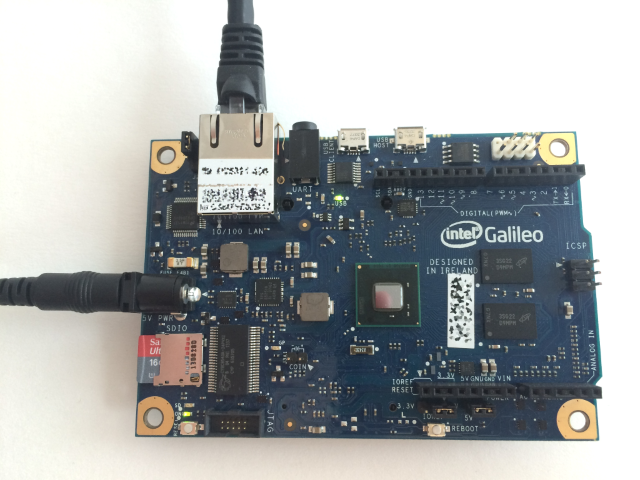
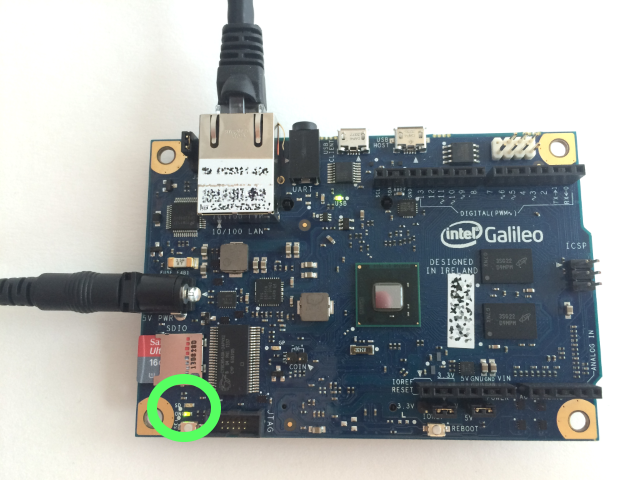
Minor content updates 908394 Before you start text 908503 Power supply incompatibility 908590 Image updates for Gen2

Changed region(s): [[0.2188, 0.7812, 0.3438, 0.9375]]

diff --git a/SetupGalileo.md b/SetupGalileo.md
@@ -4,8 +4,13 @@ title: Setup your Intel Galileo
 permalink: /SetupGalileo.htm
 ---
 
+# Before you start
+Please make sure you've visited [Setup Your PC](SetupPC.htm) before continuing with these instructions. 
+
+Please ensure that you are enrolled in the [Windows Developer Program for IoT](https://connect.microsoft.com/windowsembeddediot/SelfNomination.aspx?ProgramID=8558){:target="_blank"}. 
+
 # Setup your Intel Galileo
-This guide will show you how to install and run the Windows Developer Program for IoT on an Intel Galileo Gen1 or Gen2.
+This guide will show you how to install and run the Windows Developer Program for IoT on an Intel Galileo Gen1 or Gen2. 
 
 ## Creating a Microsoft Windows bootable microSD card
 
@@ -25,7 +30,6 @@ Requirements:
 
 * A microSD card reader or SD card reader with a microSD card adapter
 * A 16gig or larger microSD card
-* Ensure that you are enrolled in the [Windows Developer Program for IoT](https://connect.microsoft.com/windowsembeddediot/SelfNomination.aspx?ProgramID=8558){:target="_blank"}. 
 
 Software Packages:
 
@@ -69,12 +73,18 @@ The Intel Galileo Gen 2 does not currently require a firmware update.
 ## Connecting and booting Windows
 Connecting the Galileo directly to your computer will allow you to communicate with just your Galileo. Your computer will still have internet connectivity, and your computer will be able to communicate with your Galileo.
 
+**IMPORTANT NOTE:**
+: Intel Galileo Gen1 and Gen2 use different power supplies. Please only use the 12 volt power supply with the Gen2 and a 5 volt power supply with Gen1. 
+
+
 1. Connect one end of the network cable to the ethernet port on your Galileo
 1. Connect the other end of the network cable to your computer using a built in Ethernet port or a USB Ethernet adapter.
 1. Plug the power cord in
-1. You should see activity on the microSD light as it boots. The LED is at the bottom left of this picture.
+1. You should see activity on the microSD light as it boots. The LED is circled in green in the following pictures.
 
 ![](images/SDLed.png)
+
+![](images/IntelGalileoGen2.jpg)
 
 NOTE:
 : Windows on Galileo can take about 2 minutes to boot. During this time you will see the microSD activity LED flashing rapidly. Once it stops flashing for a few seconds, the Galileo is fully booted.

diff --git a/README.md b/README.md
@@ -1,11 +1,11 @@
 #Contribute
-Please refer to our [contribution page](http://ms-iot.github.io/content/Contribute.htm) for general guidelines on how to contribute.
+Please refer to our [contribution page](http://ms-iot.github.io/content/Contribute.htm)) for general guidelines on how to contribute.
 
 #Contributing to documentation
 ### Setting up Jekyll on Windows
-1. Install [Ruby](http://rubyinstaller.org/downloads/) and add it to your system path environment variable
-1. Download the [Ruby DevKit](http://rubyinstaller.org/downloads/), and follow the installation instructions [here](https://github.com/oneclick/rubyinstaller/wiki/Development-Kit)
-1. Install [Python 2.7.7](https://www.python.org/downloads/)
+1. Install [Ruby](http://rubyinstaller.org/downloads/)) and add it to your system path environment variable
+1. Download the [Ruby DevKit](http://rubyinstaller.org/downloads/), and follow the installation instructions [here](https://github.com/oneclick/rubyinstaller/wiki/Development-Kit))
+1. Install [Python 2.7.7](https://www.python.org/downloads/))
 1. Using Command Prompt, Install jekyll 2.0.3 using ruby gems. (2.1.0 cannot be used at this time)
 ```gem install jekyll --version 2.0.3```
 1. Using Command Prompt, uninstall pygments.rb - (it currently is incompatible with windows)
@@ -19,5 +19,11 @@ Please refer to our [contribution page](http://ms-iot.github.io/content/Contribu
 1. If prompted by the firewall, allow Jekyll to serve content
 1. Open your web browser and point it to the local server. localhost:4000 is the default
 1. Now you have your own version of the documentation site!
-1. You can make changes to the pages using your favorite text editor in [Jekyll's Kramdown flavored Markdown](http://jekyllrb.com/docs/home/) or HTML
+1. You can make changes to the pages using your favorite text editor.
+
+### Documentation rules
+* For samples, please use [Jekyll's Kramdown flavored Markdown](http://jekyllrb.com/docs/home/)) to get nice formatting when rendered as a webpage.
+* For README.md files, please use [Github Flavored Markdown](https://help.github.com/articles/github-flavored-markdown/) to get nice formatting on the file browser.
+* Please do not use HTML
+* For samples, please append ```{:target="_blank"}```, so the link opens in a new page
 

diff --git a/16x2LCD.md b/16x2LCD.md
@@ -8,17 +8,17 @@ permalink: /16x2LCD.htm
 Learn how to use the 16x2 LCD shield with the Arduino Liquid Crystal Library.
 
 # Required Components
-* <a href="https://www.sparkfun.com/products/255" target="_blank">16x2 LCD</a>
+* [16x2 LCD](https://www.sparkfun.com/products/255){:target="_blank"}
 * a resistor that provides your desired contrast (look at your LCD's spec sheet)
 
 # Hooking up Components
-If you are using the 16x2 LCD listed above, follow the diagram below:<br/>
-<img src="images/16x2LCDDiagram.png">
+If you are using the 16x2 LCD listed above, follow the diagram below:
+[16x2](images/16x2LCDDiagram.png)
 
 # Create a new project
 
 1. Create a new project from the template.
-1. Go to <a href="https://github.com/arduino/Arduino/tree/master/libraries/LiquidCrystal" target="_blank">Arduino's Liquid Crystal Library GitHub</a> and download the LiquidCrystal.cpp and LiquidCrystal.h files.
+1. Go to Arduino's Liquid Crystal Library GitHub](https://github.com/arduino/Arduino/tree/master/libraries/LiquidCrystal){:target="_blank"}and download the LiquidCrystal.cpp and LiquidCrystal.h files.
 1. Place the LiquidCrystal.cpp and LiquidCrystal.h files in your new project.
 1. Based on your 16x2 LCD you may need to specify other pins for use with the LiquidCrystal library.
 1. Replace the existing code in stdafx.h and main.cpp with the following code:
@@ -79,6 +79,6 @@ void loop()
 {
 }
 {% endhighlight %}
-  <hr/>
 
-<a class="btn btn-default" href="SampleApps.htm" role="button">&laquo; Return to Samples</a>
+---
+[&laquo; Return to Samples](SampleApps.htm){:role="button"}{:class="btn btn-default"}

diff --git a/SetupPC.md b/SetupPC.md
@@ -12,8 +12,8 @@ permalink: /SetupPC.htm
   <br/>
   You can find step by step instructions for signing up for Microsoft Connect <a href="SigninMSConnect.htm" target="_blank">here</a><br/>
   <hr/>
-  <h2> Visual Studio </h2>
-  <p>Install and configure Visual Studio 2013.</p>
+  <h2> Windows Developer Program for IoT Developer Tools </h2>
+  <p>The Windows Developer Program for IoT contains tools and templates which allow you to build applications for the Intel Galileo.</p>
   <div class="panel panel-danger">
     <div class="panel-heading">Note:</div>
     <div class="panel-body">
